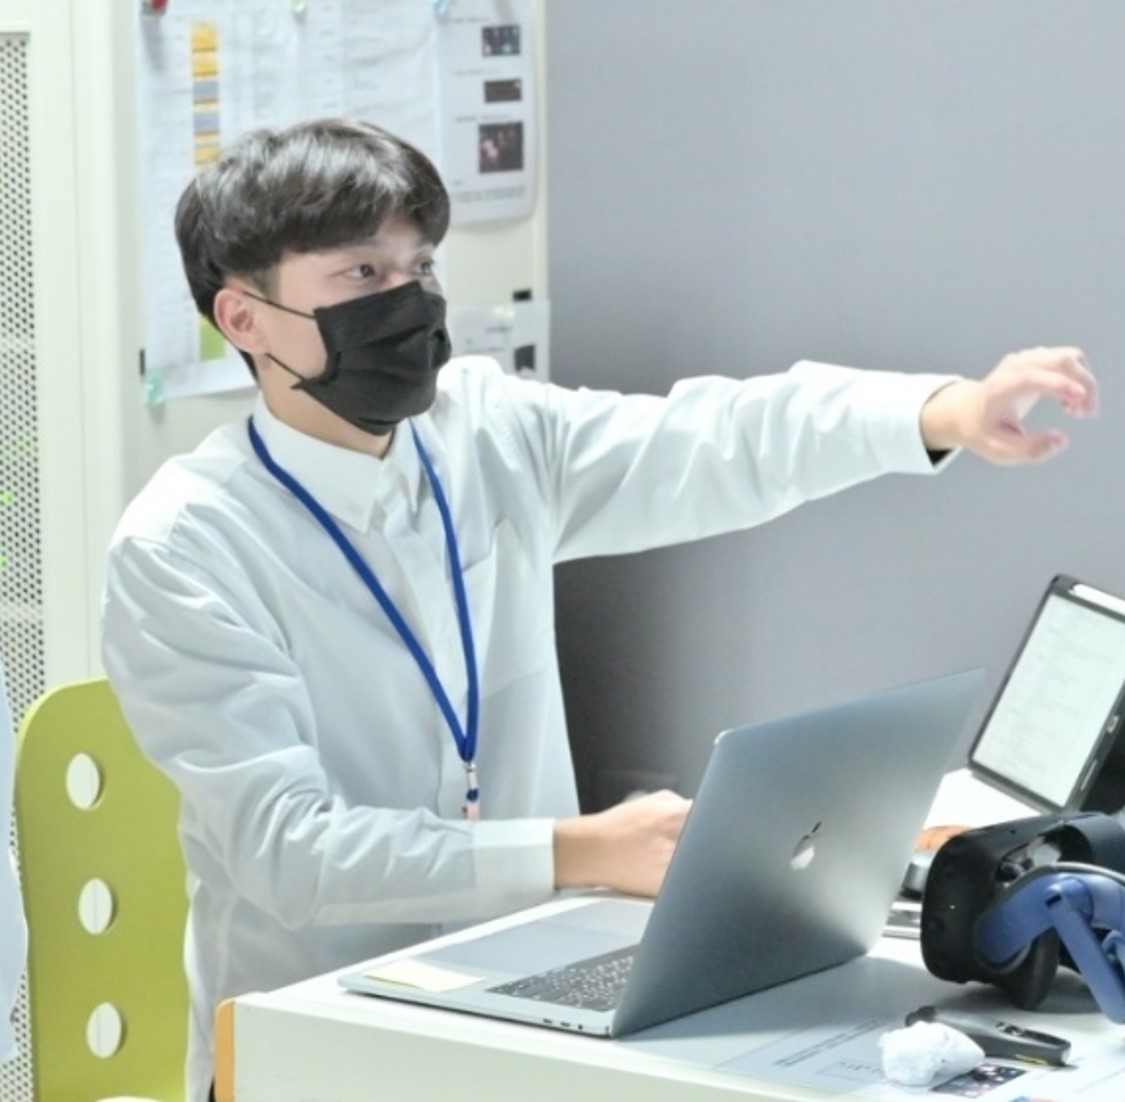
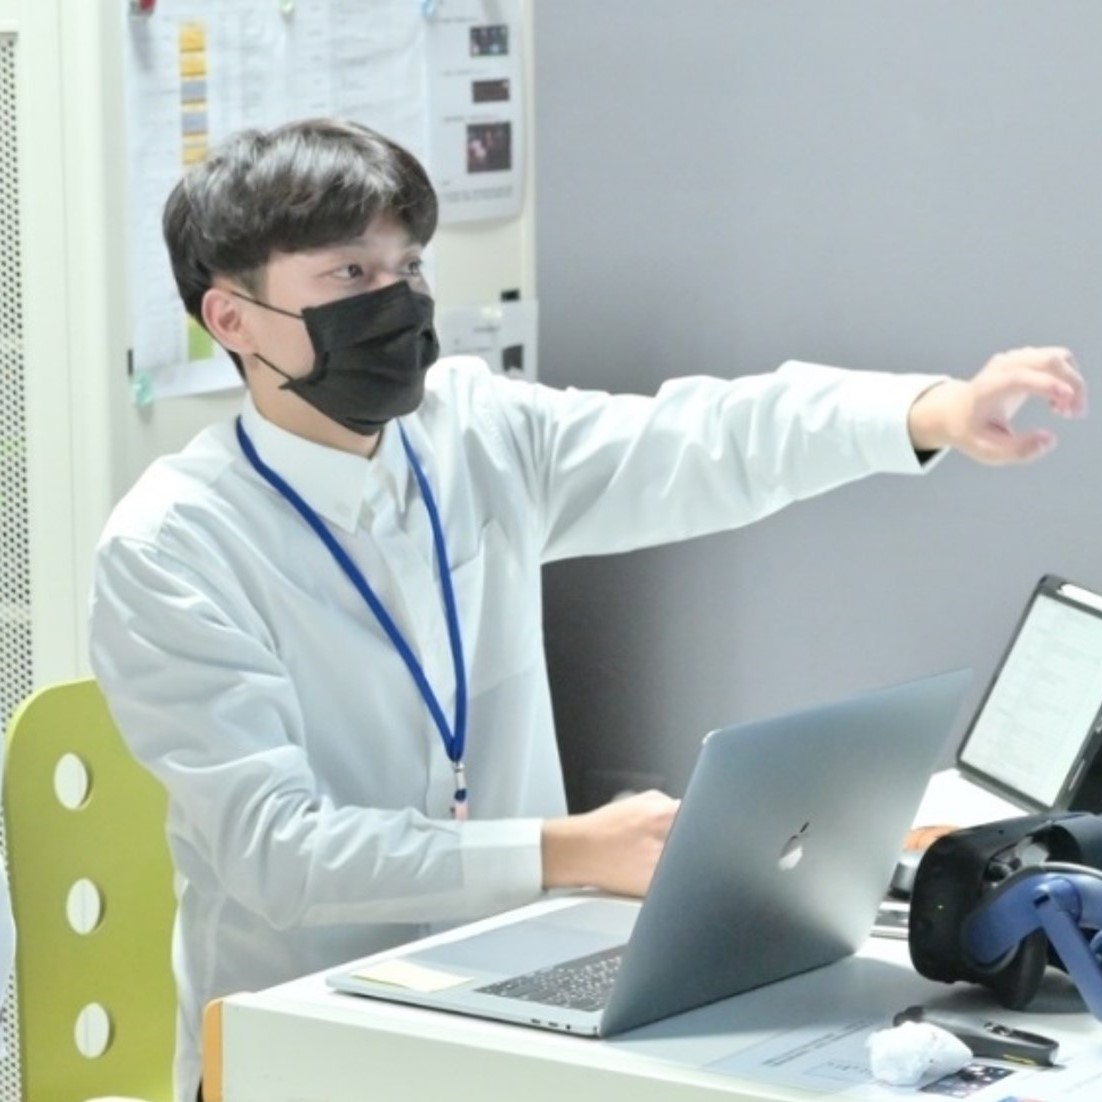
更新about圖片 調整主頁圖片大小

diff --git a/src/pages/about.js b/src/pages/about.js
@@ -63,7 +63,7 @@ const About = () => {
                 className="rounded-full flex justify-center border-[6px] border-dark border-solid items-center w-full h-auto lg:inline-block "
               />
               <div
-                className="w-[102%] h-[102%] animate-spin-slow-fast absolute left-[-1%] top-[-1%]
+                className="w-[104%] h-[104%] animate-spin-slow-fast  absolute left-[-2%] top-[-2%]
                  rounded-full -z-10 bg-gradient-to-tl from-gradient1 via-gradient2 to-gradient1"
               ></div>
             </div>

diff --git a/src/pages/index.js b/src/pages/index.js
@@ -28,7 +28,7 @@ export default function Home() {
         <Layout className="pt-0 md:p-16 sm:pt-8">
           <div className="flex items-center justify-between w-full lg:flex-col">
             <div className="w-2/3 xl:w-2/3  flex flex-row  flex-wrap justify-center md:w-3/4 sm:w-4/5 xs:w-full">
-              <div className=" relative w-3/4 md:w-4/5 rounded-full  shadow-xl ">
+              <div className=" relative w-2/3 md:w-4/5 rounded-full  shadow-xl ">
                 <Image
                   src={Ian9}
                   alt="Ian_Hsu"
